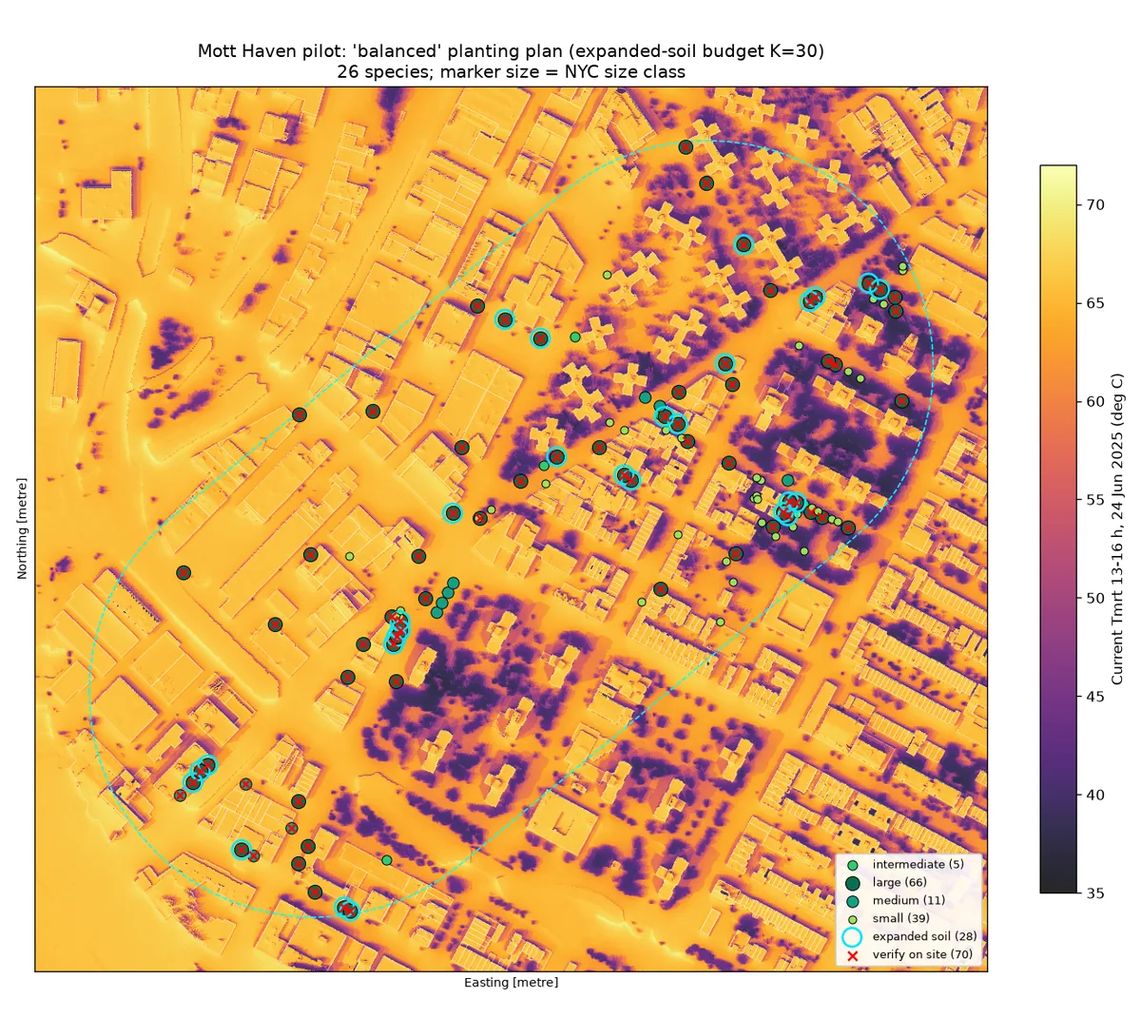
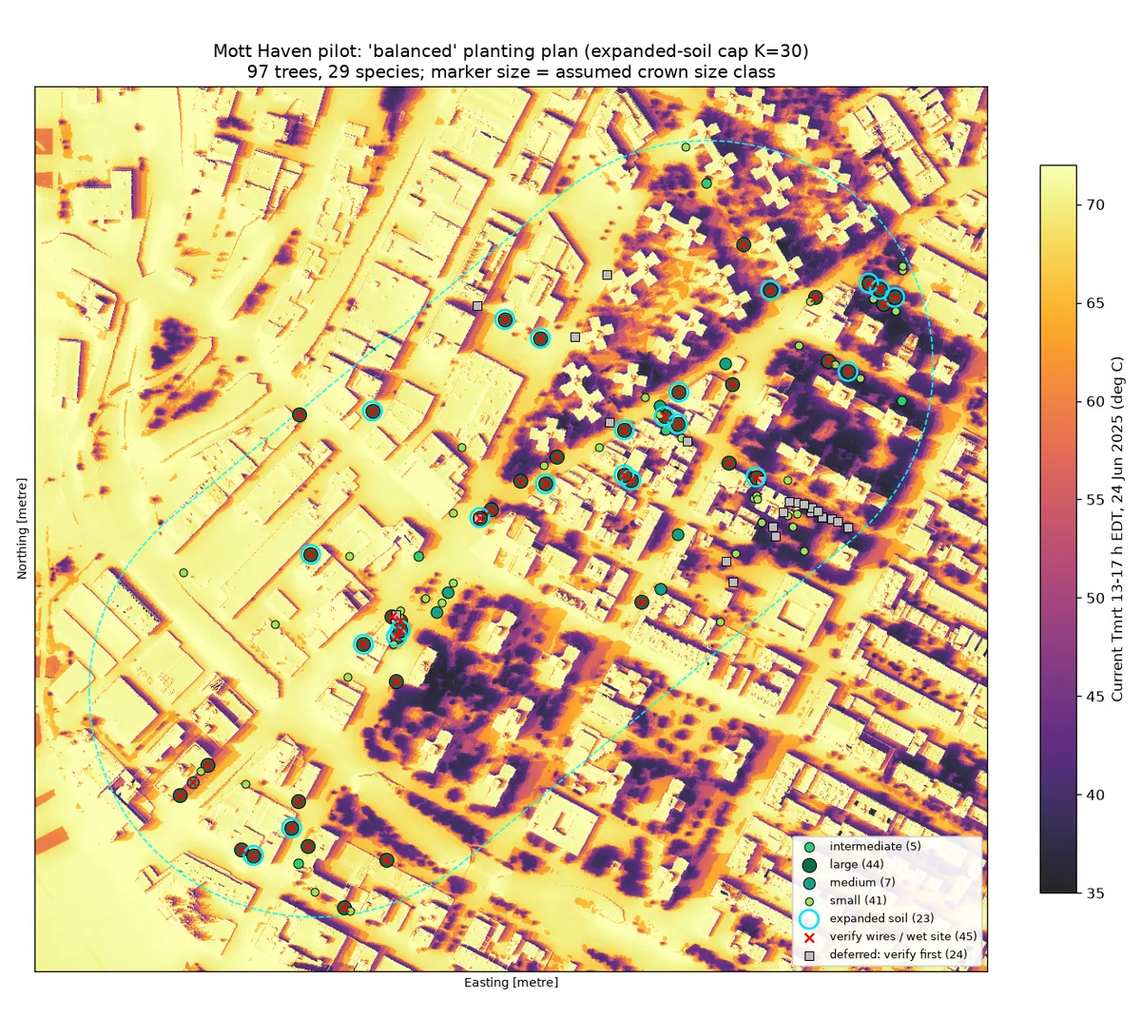
Research: correct Urban Forestry GeoAI results after external audit
The project was rerun after an audit found a weather/sun clock error,
double-counted cooling, unharmonised Sentinel-2 data, conflicting site
records and an overstated "failure probability". The research page and
card now show the corrected figures (98 candidates, 23 deferred sites,
2,167 m2 unique cooled sidewalk, balanced plan at 87% of maximum cooling),
describe the model as a relative condition-risk score, and add a section
on what the audit changed. Figures refreshed.

diff --git a/_pages/urban-forestry.md b/_pages/urban-forestry.md
@@ -9,92 +9,97 @@ permalink: /research/urban-forestry-geoai/
 # Urban Forestry GeoAI | Which tree, where, to cool a street?
 
 <section class="research-feature" id="urban-forestry-results" markdown="0">
-<p class="research-feature-intro">Can open geospatial data recommend <strong>which tree species to plant at which street location</strong> so that it cools the sidewalk, survives, and avoids health and ecological costs? This pilot builds and tests that decision pipeline for <strong>121 real planting spaces on the Third Avenue corridor of Mott Haven, South Bronx, New York City</strong>, a neighbourhood ranked in the city's highest heat-vulnerability class. It joins aerial LiDAR, four satellite records, city tree inventories and a sourced species knowledge base with a pedestrian-heat model, a tree-failure model and a multi-objective optimiser. Uncertainty and untested assumptions are reported beside each result.</p>
+<p class="research-feature-intro">Can open geospatial data recommend <strong>which tree species to plant at which street location</strong>, and say honestly what still has to be checked first? This remote pilot builds and tests that decision pipeline for the <strong>Third Avenue corridor of Mott Haven, South Bronx, New York City</strong>, a neighbourhood in the city's highest heat-vulnerability class. It joins aerial LiDAR, four satellite records, city tree inventories and a sourced species knowledge base with a pedestrian-heat model, a recorded-condition risk score and a multi-objective optimiser. <strong>The results were revised in November 2026 after an external audit</strong>; all figures below are from the corrected rerun. They are simulations and have not been validated in the field.</p>
 <div class="research-stats">
-<div><strong>6,017</strong><span>Planting spaces characterised (~70 features each)</span></div>
-<div><strong>20,309</strong><span>Young Bronx trees used to model 5-year failure</span></div>
-<div><strong>−4.8 °C</strong><span>Median local sidewalk radiant cooling per new tree at 20 years</span></div>
-<div><strong>2,687</strong><span>Sourced trait values for 49 species</span></div>
+<div><strong>98 / 23</strong><span>Planting spaces with consistent records / deferred because records conflict</span></div>
+<div><strong>−4.8 °C</strong><span>Median modelled sidewalk radiant cooling beside a new tree with an 8 m crown</span></div>
+<div><strong>2,167 m²</strong><span>Sidewalk cooled by more than 10 °C by 98 trees, each m² counted once</span></div>
+<div><strong>0.65</strong><span>AUC of the condition-risk ranking within record-year cohorts (spatial CV)</span></div>
 </div>
 
 <h2>Research questions and data</h2>
 <ul>
-<li>Where along the corridor can a tree physically be planted, and how hot, shaded, paved and vulnerable is each site?</li>
-<li>Which site and species conditions predict that a young street tree fails within five years?</li>
+<li>Which recorded planting spaces are consistent enough to plan on, and how hot, shaded and paved is each one?</li>
+<li>Which site and species conditions go with poor recorded condition of small street trees, and can that be used as a risk score?</li>
 <li>How much does a new tree reduce afternoon pedestrian radiant heat (mean radiant temperature, Tmrt) on a heat-wave day, locally and corridor-wide?</li>
-<li>Can an optimiser choose species and rooting-soil treatment that keep the cooling while lowering allergy, ozone and ecological costs, within NYC planting rules?</li>
+<li>Does an optimiser improve on simple planting rules once cooling is counted without overlap?</li>
 </ul>
-<p><strong>Geometry:</strong> USGS 3DEP LiDAR 2017 (1 m surface, terrain and canopy height), NYC building footprints, sidewalks, curbs and hydrants. <strong>Satellite:</strong> Landsat 8/9 surface temperature (77 summer scenes), NASA ECOSTRESS afternoon LST (487 granules, 53 clear afternoon scenes), Sentinel-2 (105 scenes) and NAIP 2022/23 imagery, 2019–2026. <strong>City records:</strong> NYC Parks Forestry tree points, planting spaces, inspections and work orders; the 2015 Street Tree Census; PLUTO land use; Heat Vulnerability Index; SSURGO soils. <strong>Weather:</strong> ERA5 hourly forcing for 24 June 2025, adjusted to observed maxima at Central Park (99 °F) and LaGuardia (101 °F). <strong>Species:</strong> NYC Parks approved list, USDA PLANTS, New York Flora Atlas, NIACS and USFS climate assessments, Xerces pollinator lists, published allergenicity and isoprene-emission surveys, and USFS/UF street-tree fact sheets.</p>
+<p><strong>Geometry:</strong> USGS 3DEP LiDAR 2017 (1 m surface, terrain and canopy height), NYC building footprints, sidewalks, curbs and hydrants. <strong>Satellite:</strong> Landsat 8/9 surface temperature (77 summer scenes), NASA ECOSTRESS afternoon LST, Sentinel-2 (95 unique acquisitions, reflectance offset harmonised) and NAIP 2022/23 imagery. <strong>City records:</strong> NYC Parks Forestry tree points, planting spaces, inspections and work orders; the 2015 Street Tree Census; PLUTO land use; Heat Vulnerability Index; SSURGO soils. <strong>Weather:</strong> ERA5 hourly forcing for 24 June 2025, adjusted to observed maxima at Central Park (99 °F) and LaGuardia (101 °F). <strong>Species:</strong> NYC Parks approved list, USDA PLANTS, New York Flora Atlas, NIACS and USFS climate assessments, Xerces pollinator lists, published allergenicity and isoprene-emission surveys, and USFS/UF street-tree fact sheets (49 taxa, 2,687 sourced evidence rows; conflicts between sources are kept).</p>
 
-<h2>1. The site layer: where trees can go and how hot it is</h2>
-<p>Every NYC Forestry planting space within 1 km of the corridor (<strong>6,017</strong>; 594 in the 0.48 km² core) was described by its tree and maintenance history, street geometry, LiDAR shade, canopy and paving, satellite heat and greenness, land use, soil and heat vulnerability. The core holds <strong>121 candidate spaces</strong>: 88 empty, 29 removed trees or stumps and 4 dead trees. Hourly shadow casting on the 1 m surface for 15 July shows that buildings shade only <strong>5–6%</strong> of the ground at 13:00–15:00.</p>
-<p>Afternoon surface temperature rises with paved fraction (<strong>r = +0.39</strong>) and falls with canopy within 30 m (<strong>r = −0.28</strong>); Landsat and ECOSTRESS agree (<strong>r = 0.74</strong>). London planetree already makes up <strong>19.9%</strong> of core street trees, breaking the 10% single-species guideline, so it is not planted again.</p>
+<h2>1. Site evidence: a recorded planting space is not yet a plantable site</h2>
+<p>All 6,017 NYC Forestry planting spaces within 1 km of the corridor were described by tree and maintenance history, street geometry, LiDAR shade, canopy and paving, satellite heat and greenness, land use and soil. In the 0.48 km² core (594 spaces), reconciling each space's status with its tree record leaves <strong>98 candidates</strong>, <strong>23 conflicting records</strong> (for example an "empty" space with a living tree on record) and 473 trees to retain. Conflicting sites are deferred, not planted.</p>
+<p>No candidate has a recorded pit width or length; wire status is known at 9 sites; 83 have no ownership on record. London planetree already makes up <strong>19.9%</strong> of core street trees, above the 10% single-species guideline, so it is not planted again.</p>
 <figure class="research-evidence">
 <a href="https://raw.githubusercontent.com/Bipul-roy-AI/Urban-Forestry-GEOAI/main/docs/images/site_layer_check.png" target="_blank" rel="noopener noreferrer"><img src="{{ '/assets/images/research/urban-forestry/site-layer.webp' | relative_url }}" alt="Planting spaces over ECOSTRESS afternoon surface temperature, and building-only sun hours from LiDAR shadow simulation" loading="lazy"></a>
-<figcaption><strong>Site layer.</strong> Left: planting spaces over median afternoon surface temperature (ECOSTRESS, 12–16 h). Right: building-only sun hours on 15 July from LiDAR shadow casting, with candidate sites. Surface temperature is not air temperature.</figcaption>
+<figcaption><strong>Site layer.</strong> Left: planting spaces over median afternoon surface temperature (ECOSTRESS). Right: building-only sun hours on 15 July from LiDAR shadow casting. Figure from the first build, before site records were reconciled. Surface temperature is not air temperature.</figcaption>
 </figure>
 
-<h2>2. Site conditions predict young-tree failure better than species</h2>
-<p>A LightGBM model was trained on <strong>20,309 young Bronx street trees</strong> (trunk ≤ 4 in; 16.6% recorded as failed) and validated by spatial cross-validation over <strong>132 one-kilometre blocks</strong>. Failure depends strongly on how long a record has existed (64% of 2015 records versus 2% of 2025 records), so models are also compared <strong>within record-year cohorts</strong>.</p>
+<h2>2. A condition-risk score that ranks sites, but is not a survival model</h2>
+<p>A LightGBM model was trained on the <strong>current recorded condition of 20,309 small-diameter Bronx street trees</strong> (16.6% recorded poor) and validated by spatial cross-validation over 132 one-kilometre blocks.</p>
 <table>
-<thead><tr><th>Model</th><th>AUC</th><th>AUC at equal exposure</th></tr></thead>
+<thead><tr><th>Model</th><th>AUC</th><th>AUC within record-year cohorts</th><th>Brier (raw)</th></tr></thead>
 <tbody>
-<tr><td>Record age only</td><td>0.715</td><td>0.536</td></tr>
-<tr><td>+ species and species traits</td><td>0.736</td><td>0.553</td></tr>
-<tr><td>+ site conditions</td><td><strong>0.779</strong></td><td><strong>0.652</strong></td></tr>
+<tr><td>Record age only</td><td>0.715</td><td>0.536</td><td>0.108</td></tr>
+<tr><td>+ species and species traits</td><td>0.736</td><td>0.553</td><td>0.116</td></tr>
+<tr><td>+ site conditions</td><td><strong>0.779</strong></td><td><strong>0.648</strong></td><td>0.117</td></tr>
 </tbody>
 </table>
-<p>At equal exposure, site features add <strong>+0.10 AUC</strong> and species adds <strong>+0.02</strong>. Paved surroundings, curbside pits and the highest heat-vulnerability ZIP codes raise risk; large lots and greener surroundings lower it. Isotonic calibration matches predicted to observed failure (e.g. 28.5% predicted, 28.5% observed). <strong>Meaning:</strong> the model is most useful for flagging sites that need better pits, watering or stewardship; its species ranking does not significantly agree with independent 2015 census health (Spearman ρ = 0.22, p = 0.20).</p>
+<p><strong>What holds:</strong> within the same record year, site features lift the ranking from 0.55 to 0.65 while species adds 0.02. Paved surroundings and curbside pits go with poorer recorded condition. <strong>What does not:</strong> the probabilities. Record age alone has a lower Brier score than the full model, and a nested isotonic calibration made it worse (0.129), so calibration learned in some neighbourhoods does not transfer. The sample is also biased: selecting trees by present trunk size (≤ 4 in) drops trees that grew, and the poor rate of 2015 records falls from 56% to 36% when the cut-off is widened to 8 in. The score is therefore used only to rank sites, never as a failure probability.</p>
 
 <h2>3. Strong local cooling, modest corridor change</h2>
-<p>Afternoon Tmrt was simulated at 1 m with SOLWEIG (UMEP) for the hottest clear summer day of 2019–2025 (24 June 2025, air temperature ≈ 37.8 °C), for current canopy and for one tree at every candidate site at 10 and 20 years. On today's sidewalks, Tmrt under existing canopy averages <strong>45.1 °C</strong> versus <strong>60.1 °C</strong> in the open.</p>
+<p>Afternoon Tmrt (13:00–17:00) was simulated at 1 m with SOLWEIG for the hottest clear summer day of 2019–2025 (24 June 2025, air temperature ≈ 37.8 °C), with a ground-material map and weather and sun position on one clock. Trees were added at the 98 candidate sites with assumed crown sizes; no growth model is used.</p>
 <ul>
-<li><strong>Locally:</strong> sidewalk within 15 m of a new tree cools by a median <strong>−2.5 °C at 10 years</strong> and <strong>−4.8 °C at 20 years</strong>; the best commercial frontages on Third Avenue, E 137th Street and Lincoln Avenue reach about <strong>−13 °C</strong> over 100–140 m².</li>
-<li><strong>Corridor-wide:</strong> mean sidewalk Tmrt falls only from <strong>57.0 to 56.1 °C</strong>, and the share above 60 °C from <strong>49.0% to 45.5%</strong>.</li>
-<li><strong>Air and water:</strong> first-order per-canopy rates from the NYC i-Tree Eco assessment give about 199 g O₃, 65 g NO₂, 10 g PM₂.₅ removed and 580 L of avoided runoff per 20-year tree per year. These are removal estimates, not changes in street-level concentration.</li>
+<li><strong>Plausibility:</strong> sidewalk under existing canopy averages 45.3 °C against 62.3 °C in the open. This compares the model with itself; it is not validation.</li>
+<li><strong>Locally:</strong> the sidewalk nearest a new tree cools by a median <strong>−2.6 °C with a 5 m crown</strong> and <strong>−4.8 °C with an 8 m crown</strong>.</li>
+<li><strong>Corridor-wide:</strong> 8 m crowns cool <strong>2,167 m²</strong> of sidewalk by more than 10 °C, each square metre counted once. Mean core sidewalk Tmrt moves from <strong>58.7 to 57.9 °C</strong>; the share above 60 °C from 53.1% to 50.1%.</li>
+<li><strong>Air and water:</strong> first-order per-canopy rates (Nowak et al., 2018) give about 15 kg O₃, 5 kg NO₂ and 0.8 kg PM₂.₅ removed and 45 m³ of avoided runoff per year for the 3,761 m² of simulated new canopy. These are removal estimates, not changes in the air people breathe.</li>
 </ul>
 <figure class="research-evidence">
-<a href="https://raw.githubusercontent.com/Bipul-roy-AI/Urban-Forestry-GEOAI/main/docs/images/benefits_map.png" target="_blank" rel="noopener noreferrer"><img src="{{ '/assets/images/research/urban-forestry/cooling-benefit.webp' | relative_url }}" alt="SOLWEIG afternoon mean radiant temperature now, and change after planting 121 trees at 20 years" loading="lazy"></a>
-<figcaption><strong>Pedestrian heat.</strong> Left: afternoon Tmrt (13–16 h, 24 June 2025) on current surfaces. Right: change with 121 new trees at 20 years. Tree crowns are a generic assumption pending species growth curves.</figcaption>
+<a href="https://raw.githubusercontent.com/Bipul-roy-AI/Urban-Forestry-GEOAI/main/docs/images/benefits_map.png" target="_blank" rel="noopener noreferrer"><img src="{{ '/assets/images/research/urban-forestry/cooling-benefit.webp' | relative_url }}" alt="SOLWEIG afternoon mean radiant temperature now, and change after planting 98 trees with 8 m crowns" loading="lazy"></a>
+<figcaption><strong>Pedestrian heat.</strong> Left: afternoon Tmrt on current surfaces. Right: change with 98 new trees with assumed 8 m crowns.</figcaption>
 </figure>
 
-<h2>4. Optimised plans keep the cooling and cut health and ecological costs</h2>
-<p>An NSGA-II optimiser chose one of 41 NYC-approved species and whether to install expanded rooting soil for each site, maximising risk-adjusted cooling and ecology (native to NY, pollinator value, climate suitability 2070–2099) while minimising pollen allergy and isoprene (ozone-precursor) emission. Plans had to respect the 10-20-30 diversity rule including existing trees, no large trees under known overhead wires, narrow-sidewalk and NYC location rules. The search was seeded with rule-based plans so it could only match or beat them.</p>
+<h2>4. The optimiser ties a simple rule on cooling; its value is the trade-off</h2>
+<p>An NSGA-II optimiser chose one of 41 NYC-approved species and optional expanded rooting soil for each site, with four separate goals (cooling, a pollen-allergy plus isoprene index, an ecology index, condition risk) and NYC constraints: diversity limits of 10% species, 20% genus and 30% family including existing trees, no large trees under known wires, and narrow-sidewalk and location rules. Every plan in the table was then <strong>re-simulated as a whole</strong> with each tree at its own assumed crown size.</p>
 <table>
-<thead><tr><th>Plan (30 expanded-soil sites)</th><th>Cooled sidewalk, m²</th><th>Allergy + isoprene ↓</th><th>Ecology ↑</th></tr></thead>
+<thead><tr><th>Plan (cap of 30 expanded-soil sites)</th><th>Cooled sidewalk, m² (simulated)</th><th>Allergy + isoprene index ↓</th><th>Ecology index ↑</th></tr></thead>
 <tbody>
-<tr><td>Optimiser: maximum cooling</td><td><strong>3,012</strong></td><td>330</td><td>134</td></tr>
-<tr><td><strong>Optimiser: balanced</strong></td><td>2,801</td><td><strong>305</strong></td><td><strong>176</strong></td></tr>
-<tr><td>Rule: biggest tree that fits</td><td>2,943</td><td>429</td><td>90</td></tr>
-<tr><td>Rule: NYC's commonly planted mix</td><td>2,955</td><td>426</td><td>87</td></tr>
+<tr><td>Optimiser: maximum cooling</td><td><strong>2,004</strong></td><td>348</td><td>76</td></tr>
+<tr><td><strong>Optimiser: balanced</strong></td><td>1,739</td><td><strong>249</strong></td><td><strong>132</strong></td></tr>
+<tr><td>Rule: biggest tree that fits</td><td><strong>2,004</strong></td><td>351</td><td>67</td></tr>
+<tr><td>Rule: NYC's commonly planted mix</td><td>1,989</td><td>342</td><td>72</td></tr>
+<tr><td>Random approved species</td><td>1,588</td><td>299</td><td>95</td></tr>
 </tbody>
 </table>
-<p>The balanced plan keeps about <strong>95%</strong> of the best rule's cooling with about <strong>29% less</strong> allergy and ozone risk and <strong>twice</strong> the ecological score. Expanded soil has diminishing returns: the first 30 installations add 14% cooling to the maximum-cooling plan; the next 30 add 7%. On cooling alone, the simple rule comes within 2–3%; the optimiser's value is the trade-off.</p>
+<p><strong>On cooling alone the optimiser adds nothing</strong>: its best plan ties the one-line rule. The balanced plan keeps <strong>87%</strong> of the maximum cooling with a <strong>29% lower</strong> allergy/isoprene index and about <strong>double</strong> the ecology index. These are constructed indices from published categories, not measured health or biodiversity outcomes.</p>
 <div class="research-evidence-grid">
 <figure class="research-evidence">
-<a href="https://raw.githubusercontent.com/Bipul-roy-AI/Urban-Forestry-GEOAI/main/docs/images/plan_balanced_K30.png" target="_blank" rel="noopener noreferrer"><img src="{{ '/assets/images/research/urban-forestry/balanced-plan.webp' | relative_url }}" alt="Balanced planting plan: tree size class and expanded soil at each candidate site over current afternoon Tmrt" loading="lazy"></a>
-<figcaption><strong>Balanced plan.</strong> Large trees with expanded soil on hot open frontages; small trees in already-shaded courtyards. Red crosses mark sites that need an on-site wire or wet-site check.</figcaption>
+<a href="https://raw.githubusercontent.com/Bipul-roy-AI/Urban-Forestry-GEOAI/main/docs/images/plan_balanced_K30.png" target="_blank" rel="noopener noreferrer"><img src="{{ '/assets/images/research/urban-forestry/balanced-plan.webp' | relative_url }}" alt="Balanced planting plan: assumed crown class and expanded soil at each candidate site, with deferred sites shown separately" loading="lazy"></a>
+<figcaption><strong>Balanced plan.</strong> 97 trees of 29 species; grey squares are the 24 deferred sites; red crosses mark large trees where wire status is unknown.</figcaption>
 </figure>
 <figure class="research-evidence">
-<a href="https://raw.githubusercontent.com/Bipul-roy-AI/Urban-Forestry-GEOAI/main/docs/images/interface_site.png" target="_blank" rel="noopener noreferrer"><img src="{{ '/assets/images/research/urban-forestry/planner-interface.webp' | relative_url }}" alt="Planner interface showing a selected site with species, cooling, failure risk and field checks" loading="lazy"></a>
-<figcaption><strong>Planner interface.</strong> Plan switcher, soil budget, site details, plan comparison and question answering over the plan data. Model outputs, not planting approvals.</figcaption>
+<a href="https://raw.githubusercontent.com/Bipul-roy-AI/Urban-Forestry-GEOAI/main/docs/images/interface_site.png" target="_blank" rel="noopener noreferrer"><img src="{{ '/assets/images/research/urban-forestry/planner-interface.webp' | relative_url }}" alt="Planner interface showing a selected site with its recommendation and outstanding field checks" loading="lazy"></a>
+<figcaption><strong>Planner interface.</strong> Each site shows its recommendation, the evidence behind it and the checks still required. Model outputs, not planting approvals.</figcaption>
 </figure>
 </div>
 
+<h2>What the audit changed</h2>
+<p>An external review found a one-hour mismatch between weather and sun position, cooling double-counted where tree buffers overlap (3,783 m² reported against 2,277 m² unique), unharmonised and duplicated Sentinel-2 products, conflicting site records treated as plantable, a missing ground-material map, and a "5-year failure probability" label the data cannot support. All were corrected and rerun. The headline trade-off fell from "95% of the cooling" to 87%, and the optimiser's apparent cooling advantage disappeared. The <a href="https://github.com/Bipul-roy-AI/Urban-Forestry-GEOAI#what-changed-in-the-november-2026-revision">full list of fixes</a> is in the repository.</p>
+
 <h2>Data and code</h2>
 <ul>
-<li><a href="https://github.com/Bipul-roy-AI/Urban-Forestry-GEOAI/blob/main/docs/Pilot_Plan_v2.md">Feasibility and pilot design</a> and <a href="https://github.com/Bipul-roy-AI/Urban-Forestry-GEOAI/blob/main/docs/Data_Audit_Area_A.md">data audit</a></li>
-<li><a href="https://github.com/Bipul-roy-AI/Urban-Forestry-GEOAI/blob/main/docs/Species_KB.md">Species knowledge base</a> with an evidence table and source registry for every value</li>
-<li><a href="https://github.com/Bipul-roy-AI/Urban-Forestry-GEOAI/blob/main/docs/Survival_Model.md">Survival model</a>, <a href="https://github.com/Bipul-roy-AI/Urban-Forestry-GEOAI/blob/main/docs/Benefits_Model.md">benefit modelling</a> and <a href="https://github.com/Bipul-roy-AI/Urban-Forestry-GEOAI/blob/main/docs/Optimiser.md">optimiser</a> write-ups</li>
-<li><a href="https://github.com/Bipul-roy-AI/Urban-Forestry-GEOAI/tree/main/scripts">23 reproducible Python scripts</a> and the <a href="https://github.com/Bipul-roy-AI/Urban-Forestry-GEOAI/tree/main/interface">planner interface</a></li>
+<li><a href="https://github.com/Bipul-roy-AI/Urban-Forestry-GEOAI/blob/main/docs/Data_Audit_Area_A.md">Data audit</a> and <a href="https://github.com/Bipul-roy-AI/Urban-Forestry-GEOAI/blob/main/docs/Site_Features.md">site features</a></li>
+<li><a href="https://github.com/Bipul-roy-AI/Urban-Forestry-GEOAI/blob/main/docs/Species_KB.md">Species knowledge base</a> with an evidence table and source registry</li>
+<li><a href="https://github.com/Bipul-roy-AI/Urban-Forestry-GEOAI/blob/main/docs/Condition_Risk_Model.md">Condition-risk model</a>, <a href="https://github.com/Bipul-roy-AI/Urban-Forestry-GEOAI/blob/main/docs/Benefits_Model.md">benefit modelling</a> and <a href="https://github.com/Bipul-roy-AI/Urban-Forestry-GEOAI/blob/main/docs/Optimiser.md">optimiser</a> write-ups</li>
+<li><a href="https://github.com/Bipul-roy-AI/Urban-Forestry-GEOAI/tree/main/scripts">Reproducible Python scripts</a> and the <a href="https://github.com/Bipul-roy-AI/Urban-Forestry-GEOAI/tree/main/interface">planner interface</a></li>
 </ul>
 
 <h2>What this does not show</h2>
-<p>Tmrt is pedestrian radiant heat on one hot day, not air temperature, and comes from an experimental standalone port of SOLWEIG. Tree crown sizes at 10 and 20 years are generic assumptions, and a large species without expanded soil is assumed capped at a medium crown. The failure label is a cross-sectional proxy from city inventory records, not measured survival. Overhead wires are recorded at only 11 of 121 sites, and pit soil and underground utilities are not public. Dense crowns in narrow streets can trap pollution, and oaks are high isoprene emitters. Nothing has yet been validated in the field.</p>
+<p>Nothing here is measured in the field. Tmrt is simulated pedestrian radiant heat on one day from an experimental port of SOLWEIG; it is not air temperature. Crown sizes are assumptions, and the gain from expanded soil follows from an assumed crown cap. The condition-risk score is cross-sectional and biased by how the sample is drawn; it is not survival. Pit dimensions, most wire and ownership records, and underground utilities are unknown, so no site is confirmed plantable. Geometry dates differ (LiDAR 2017, imagery 2022–23, records 2026). ECOSTRESS quality filtering is still incomplete.</p>
 <p class="research-links"><a href="https://github.com/Bipul-roy-AI/Urban-Forestry-GEOAI">Explore the complete pipeline, maps, models and data →</a></p>
 </section>
 
 <section class="research-ongoing" markdown="0">
 <h2>Ongoing research</h2>
-<p>Next steps are <strong>species-specific growth curves</strong> from the USFS Urban Tree Database to replace the generic crowns; <strong>street-level imagery</strong> to fill missing overhead-wire and pit-size records; <strong>true 10-year survival</strong> from the Trees Count 2025 census once released; and a <strong>summer field campaign</strong> with globe thermometers, air-temperature loggers and pit-soil sampling to validate the modelled cooling. A peri-urban contrast site (Staten Island) and a European transfer test (Berlin) are planned to check whether the method generalises.</p>
+<p>Next steps are a <strong>tree-level history</strong> from inspections and work orders for a real survival model; <strong>species growth curves</strong> from the USFS Urban Tree Database to replace assumed crowns; <strong>street-level imagery</strong> to resolve occupancy, wires and pit size at the 121 sites; a <strong>benchmark against the published SOLWEIG/TreePlanter test case</strong>; and a <strong>field campaign</strong> with radiation or globe-thermometer measurements and pit-soil sampling. A study of which missing observation would most change the plan is a candidate research contribution.</p>
 </section>

diff --git a/_pages/research.md b/_pages/research.md
@@ -13,8 +13,8 @@ I study environmental systems through GIS, hydrodynamic modelling, spatial analy
 <a class="research-card-image-link" href="{{ '/research/urban-forestry-geoai/' | relative_url }}" aria-label="Open Urban Forestry GeoAI research results"><img src="{{ '/assets/images/research/urban-forestry/cooling-benefit.webp' | relative_url }}" class="research-thumb research-thumb--map" alt="SOLWEIG afternoon pedestrian radiant temperature in Mott Haven and cooling from 121 new street trees at 20 years" width="800" height="400" loading="lazy"></a>
 <div class="research-body">
 <h2 class="research-title"><a href="{{ '/research/urban-forestry-geoai/' | relative_url }}">Urban Forestry GeoAI | Street-tree siting for heat reduction in New York City</a></h2>
-<p class="research-desc">A geospatial decision pipeline for 121 planting spaces on Third Avenue, Mott Haven (South Bronx): LiDAR, Landsat, ECOSTRESS and Sentinel-2 site characterisation, a sourced 49-species knowledge base, a young-tree failure model, SOLWEIG pedestrian-heat simulation and a multi-objective planting optimiser.</p>
-<p class="research-desc"><strong>Selected results:</strong> A new tree cools nearby sidewalk radiant heat by a median −4.8 °C at 20 years (up to −13 °C), but the corridor mean by only ~1 °C. Site conditions predict young-tree failure better than species (spatial-CV AUC 0.78). An optimised plan keeps ~95% of the cooling with ~29% less allergy/ozone risk. <em>Modelled; not yet field-validated.</em></p>
+<p class="research-desc">A remote decision pipeline for street-tree planting on Third Avenue, Mott Haven (South Bronx): LiDAR, Landsat, ECOSTRESS and Sentinel-2 site evidence, a sourced 49-species knowledge base, a recorded-condition risk score, SOLWEIG pedestrian-heat simulation and a multi-objective optimiser. Revised after an external audit.</p>
+<p class="research-desc"><strong>Selected results:</strong> A new tree with an 8 m crown cools nearby sidewalk radiant heat by a median −4.8 °C, but 98 trees move the corridor mean by under 1 °C. On cooling alone the optimiser only ties "plant the biggest tree that fits"; a balanced plan keeps 87% of the cooling with a 29% lower allergy/isoprene index. 23 of 121 sites are deferred because records conflict. <em>Simulated; not field-validated.</em></p>
 <p class="research-links"><a href="{{ '/research/urban-forestry-geoai/' | relative_url }}">View maps, results &amp; limitations →</a> <a href="https://github.com/Bipul-roy-AI/Urban-Forestry-GEOAI">Research data &amp; code ↗</a></p>
 </div>
 </div>
